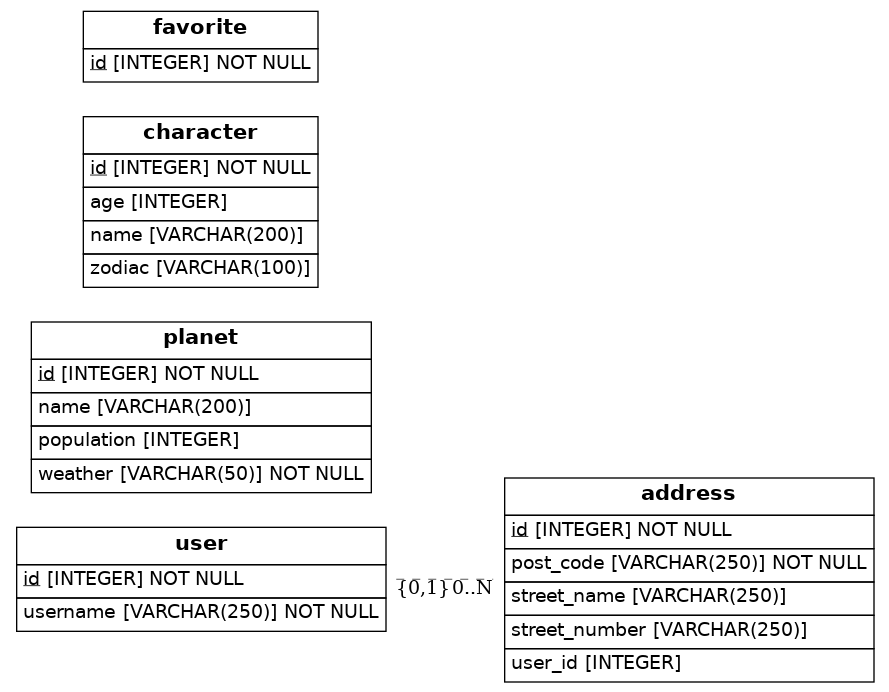
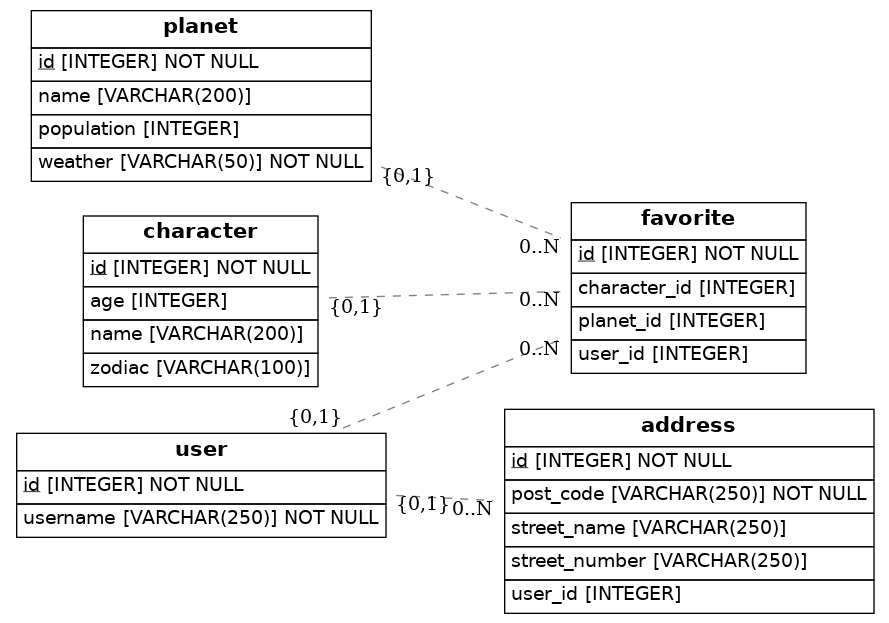
::white_check_mark::

Changed region(s): [[0.0, 0.0, 1.0, 1.0], [0.5771, 0.305, 0.9111, 0.61]]

diff --git a/src/models.py b/src/models.py
@@ -8,29 +8,6 @@ from eralchemy2 import render_er
 
 Base = declarative_base()
 
-class User(Base):
-    __tablename__ = 'user'
-    # Here we define columns for the table user
-    # Notice that each column is also a normal Python instance attribute.
-    id = Column(Integer, primary_key=True)
-    username = Column(String(250), nullable=False)
-    
-    favorite=relationship(Favorite)
-
-class Address(Base):
-    __tablename__ = 'address'
-    # Here we define columns for the table address.
-    # Notice that each column is also a normal Python instance attribute.
-    id = Column(Integer, primary_key=True)
-    street_name = Column(String(250))
-    street_number = Column(String(250))
-    post_code = Column(String(250), nullable=False)
-    user_id = Column(Integer, ForeignKey('user.id'))
-    user = relationship(User)
-
-    def to_dict(self):
-        return {}
-
 class Planet(Base):
     __tablename__="planet"
 
@@ -47,16 +24,39 @@ class Character(Base):
     age=Column(Integer)
     zodiac=Column(String(100))
 
+class User(Base):
+    __tablename__ = 'user'
+    # Here we define columns for the table user
+    # Notice that each column is also a normal Python instance attribute.
+    id = Column(Integer, primary_key=True)
+    username = Column(String(250), nullable=False)
+#    favorite=relationship(Favorite)
+
+class Address(Base):
+    __tablename__ = 'address'
+    # Here we define columns for the table address.
+    # Notice that each column is also a normal Python instance attribute.
+    id = Column(Integer, primary_key=True)
+    street_name = Column(String(250))
+    street_number = Column(String(250))
+    post_code = Column(String(250), nullable=False)
+    user_id = Column(Integer, ForeignKey('user.id'))
+    user = relationship(User)
+    
+
+    def to_dict(self):
+        return {}
+    
 class Favorite(Base):
     __tablename__="favorite"
 
     id=Column(Integer,primary_key=True)
     user_id=Column(Integer,ForeignKey('user.id'))
     user=relationship(User)
-    character=relationship(ForeignKey('character.id'))
+    character_id=Column(ForeignKey('character.id'))
     character=relationship(Character)
-    planet=relationship(ForeignKey('planet.id'))
-    planet=relationship(Planet)
+    planet_id=Column(ForeignKey('planet.id'))
+    planet=relationship(Planet)  
 
 ## Draw from SQLAlchemy base
 render_er(Base, 'diagram.png')
